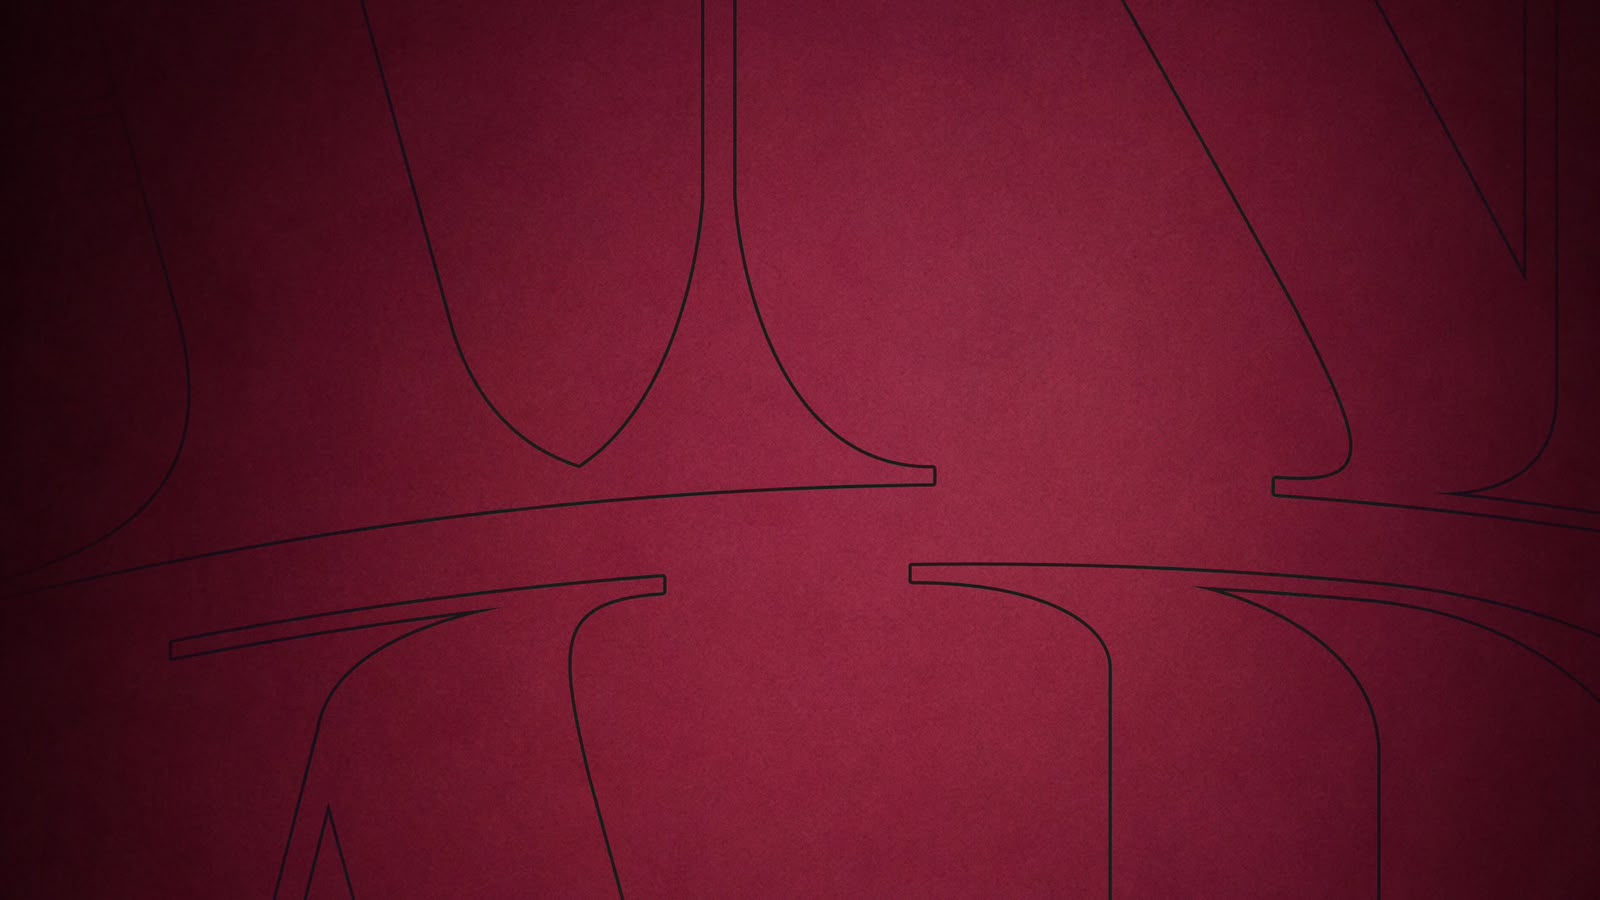
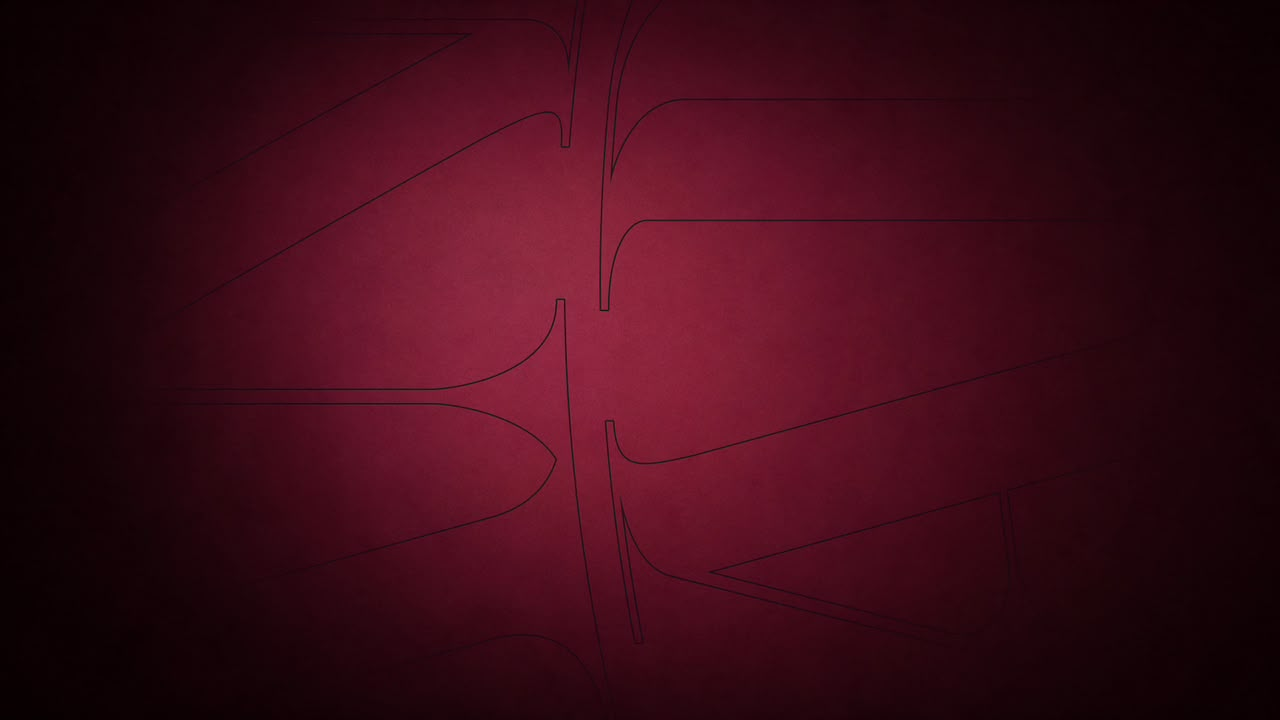
Novo fundo da tela de início, remove TRF duplicado e ajusta Save the date no celular

diff --git a/index.html b/index.html
@@ -210,6 +210,8 @@
         .wrap{max-width:1250px;margin:0 auto;padding:0 5%}
         .bg-sand{background:#e0c9ae url(fotos/bg-sand.jpg) center/cover no-repeat}
         .bg-wine{background:#2a050e url(fotos/bg-wine.jpg) center/cover no-repeat}
+        /* Fundo da tela de início: troque a foto em fotos/bg-inicio.jpg */
+        .bg-inicio{background:#2a050e url(fotos/bg-inicio.jpg) center bottom/cover no-repeat}
 
         /* Cabeçalho */
         header{flex-direction:row;justify-content:center;align-items:center;padding:.4rem 3%;padding-top:calc(.5rem + env(safe-area-inset-top,0px));gap:1rem;min-height:var(--hh)}
@@ -225,7 +227,7 @@
         .btn-auth,.cart-badge{background:var(--wine)}
 
         /* Início */
-        .hero2{position:relative;overflow:hidden;color:#fff;padding:clamp(1.6rem,3.6vw,3.4rem) 6.3% clamp(1.4rem,2.6vw,2.4rem);min-height:clamp(520px,49vw,780px);display:flex;flex-direction:column;background:#2a050e url(fotos/bg-wine.jpg) center/100% 100% no-repeat}
+        .hero2{position:relative;overflow:hidden;color:#fff;padding:clamp(1.6rem,3.6vw,3.4rem) 6.3% clamp(1.4rem,2.6vw,2.4rem);min-height:clamp(520px,49vw,780px);display:flex;flex-direction:column}
         .wm{position:absolute;left:-1.5vw;bottom:-9vw;font-family:var(--fh);font-size:clamp(11rem,30vw,28rem);font-weight:800;letter-spacing:-.09em;color:rgba(255,255,255,.085);line-height:.8;pointer-events:none;user-select:none;z-index:1}
         .hero2>*:not(.wm){position:relative;z-index:2}
         .hero2-top,.hero2-foot{display:flex;align-items:center;gap:clamp(.8rem,2.2vw,2rem);font-family:var(--fb);font-weight:400;font-size:clamp(.72rem,1.35vw,1.2rem);text-transform:uppercase;letter-spacing:0;white-space:nowrap}
@@ -239,10 +241,10 @@
         .glass b strong{display:block;font-weight:700}
         .glass span{display:inline-block;background:#fff;color:var(--wine);font-family:var(--fh);font-weight:700;font-size:clamp(.78rem,1.55vw,1.5rem);letter-spacing:-.07em;padding:clamp(.4rem,.8vw,.7rem) clamp(.9rem,1.9vw,1.9rem);border-radius:clamp(10px,1.1vw,16px);text-transform:uppercase;line-height:1.1}
         .count{text-align:center;padding:1.8rem 5% 1.4rem}
-        .count h2{color:var(--wine);font-size:1.7rem;margin-bottom:.5rem}
+        .count h2{color:var(--wine);font-size:1.7rem;margin-bottom:.5rem;font-weight:500}
         .count-row{display:flex;justify-content:center;gap:clamp(1.2rem,5vw,3.6rem)}
         .count-row div{display:flex;flex-direction:column;align-items:center}
-        .count-row strong{font-family:var(--fh);font-size:clamp(3.2rem,9.5vw,5rem);font-weight:500;letter-spacing:-.07em;color:var(--wine);line-height:.95}
+        .count-row strong{font-family:var(--fh);font-size:clamp(3.2rem,9.5vw,5rem);font-weight:700;letter-spacing:-.07em;color:var(--wine);line-height:.95}
         .count-row small{font-family:var(--fh);font-size:.55rem;letter-spacing:.22em;text-transform:uppercase;color:var(--wine);margin-top:.2rem}
         .promo{margin:1.8rem auto;max-width:1150px;width:90%;display:flex;align-items:center;justify-content:space-between;gap:2rem;padding:2rem;border-radius:26px;color:#fff;background:linear-gradient(135deg,var(--wine-2),var(--wine));box-shadow:0 18px 36px rgba(60,10,22,.3)}
         .promo h2{font-size:1.8rem;margin-bottom:.4rem}
@@ -337,10 +339,12 @@
             nav ul li a{font-size:.78rem}
             .header-actions{justify-content:center;flex-wrap:wrap}
             .cart-header{display:inline-flex!important}
-            .hero2{padding:1.4rem 5% 1.2rem;min-height:440px}
+            .hero2{padding:1.4rem 5% 1.2rem;min-height:440px;background-position:left bottom}
             .hero2-main{flex-direction:column;align-items:flex-start;gap:1.4rem;margin-top:1.8rem}
             .hero2 p{max-width:100%}
-            .glass{width:100%;max-width:340px}
+            .glass{width:100%;max-width:200px;align-self:center;margin:0 auto;padding:.7rem .7rem .9rem;border-radius:14px}
+            .glass b{font-size:.85rem;margin-bottom:.6rem}
+            .glass span{font-size:.64rem;padding:.3rem .7rem;border-radius:9px}
             .promo{flex-direction:column;text-align:left;padding:1.4rem}
             .promo .photo{width:100%}
             .about{grid-template-columns:1fr}
@@ -415,8 +419,7 @@
 
 <!-- ============ INÍCIO ============ -->
 <section id="page-home" class="page-section active-page">
-    <div class="hero2">
-        <div class="wm">TRF</div>
+    <div class="hero2 bg-inicio">
         <div class="hero2-top"><span>Renúncia</span><i class="line"></i><span>II Timóteo 2:22-26</span></div>
         <div class="hero2-main">
             <div>
